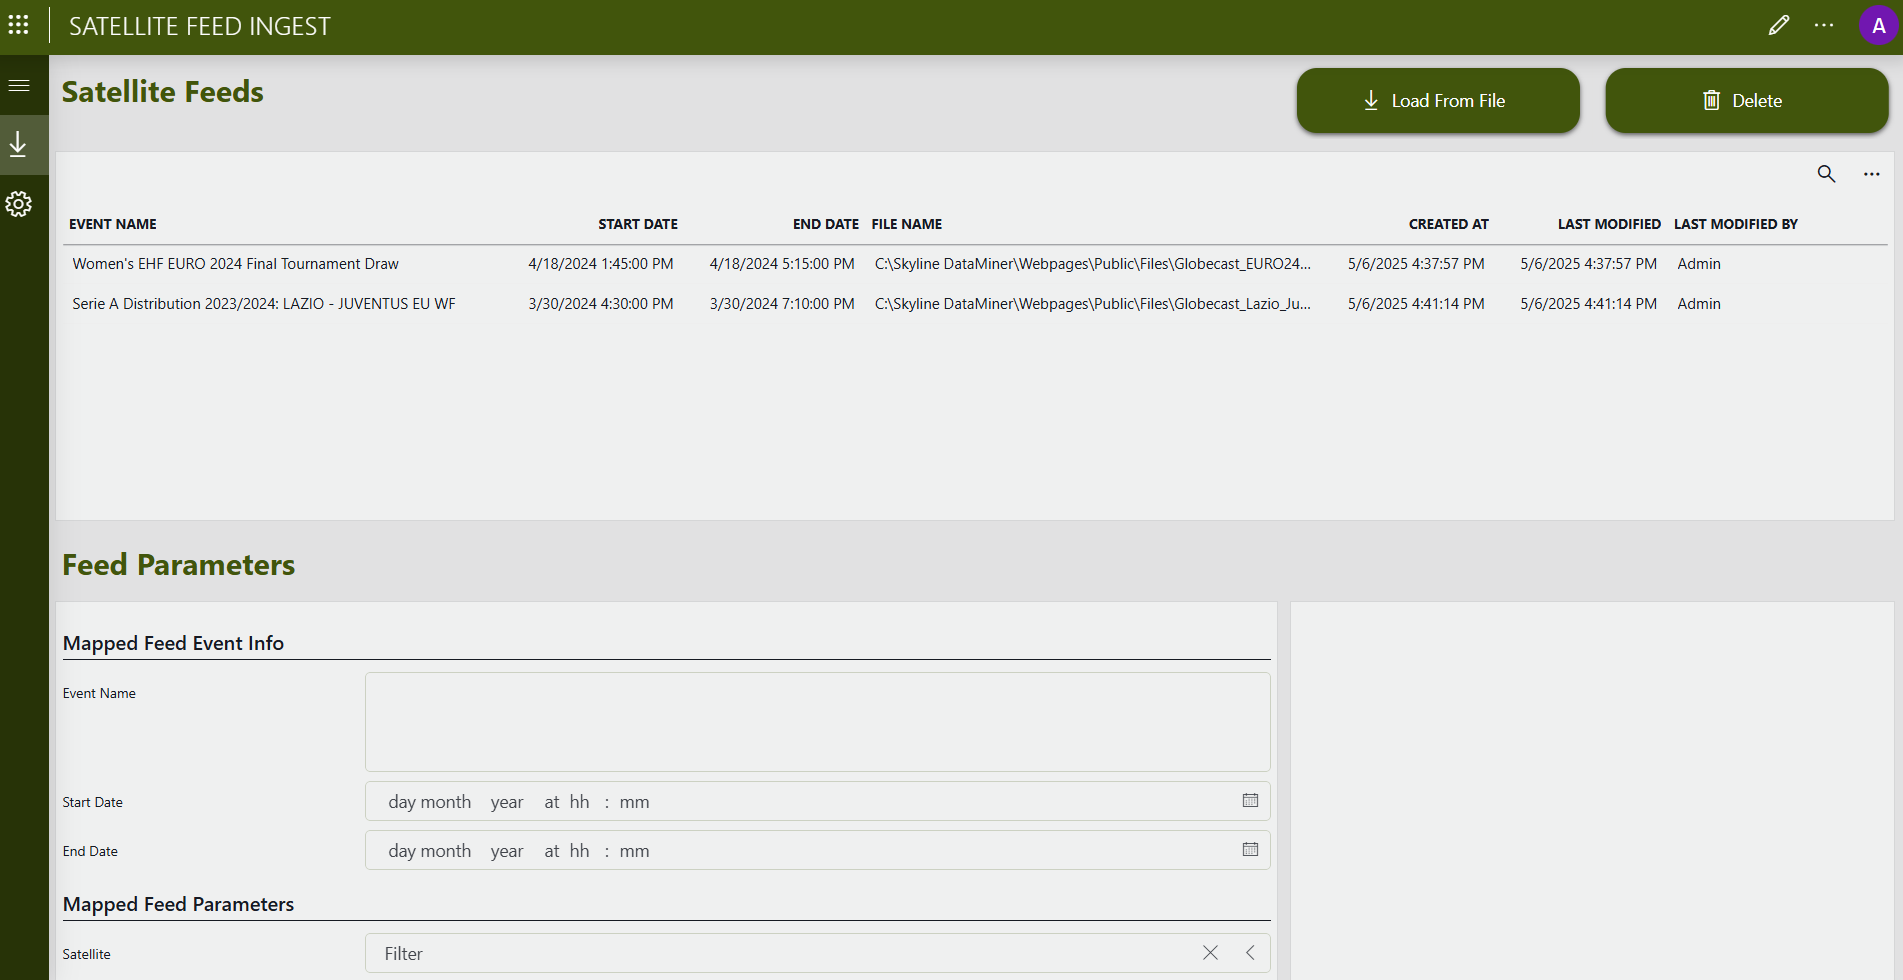
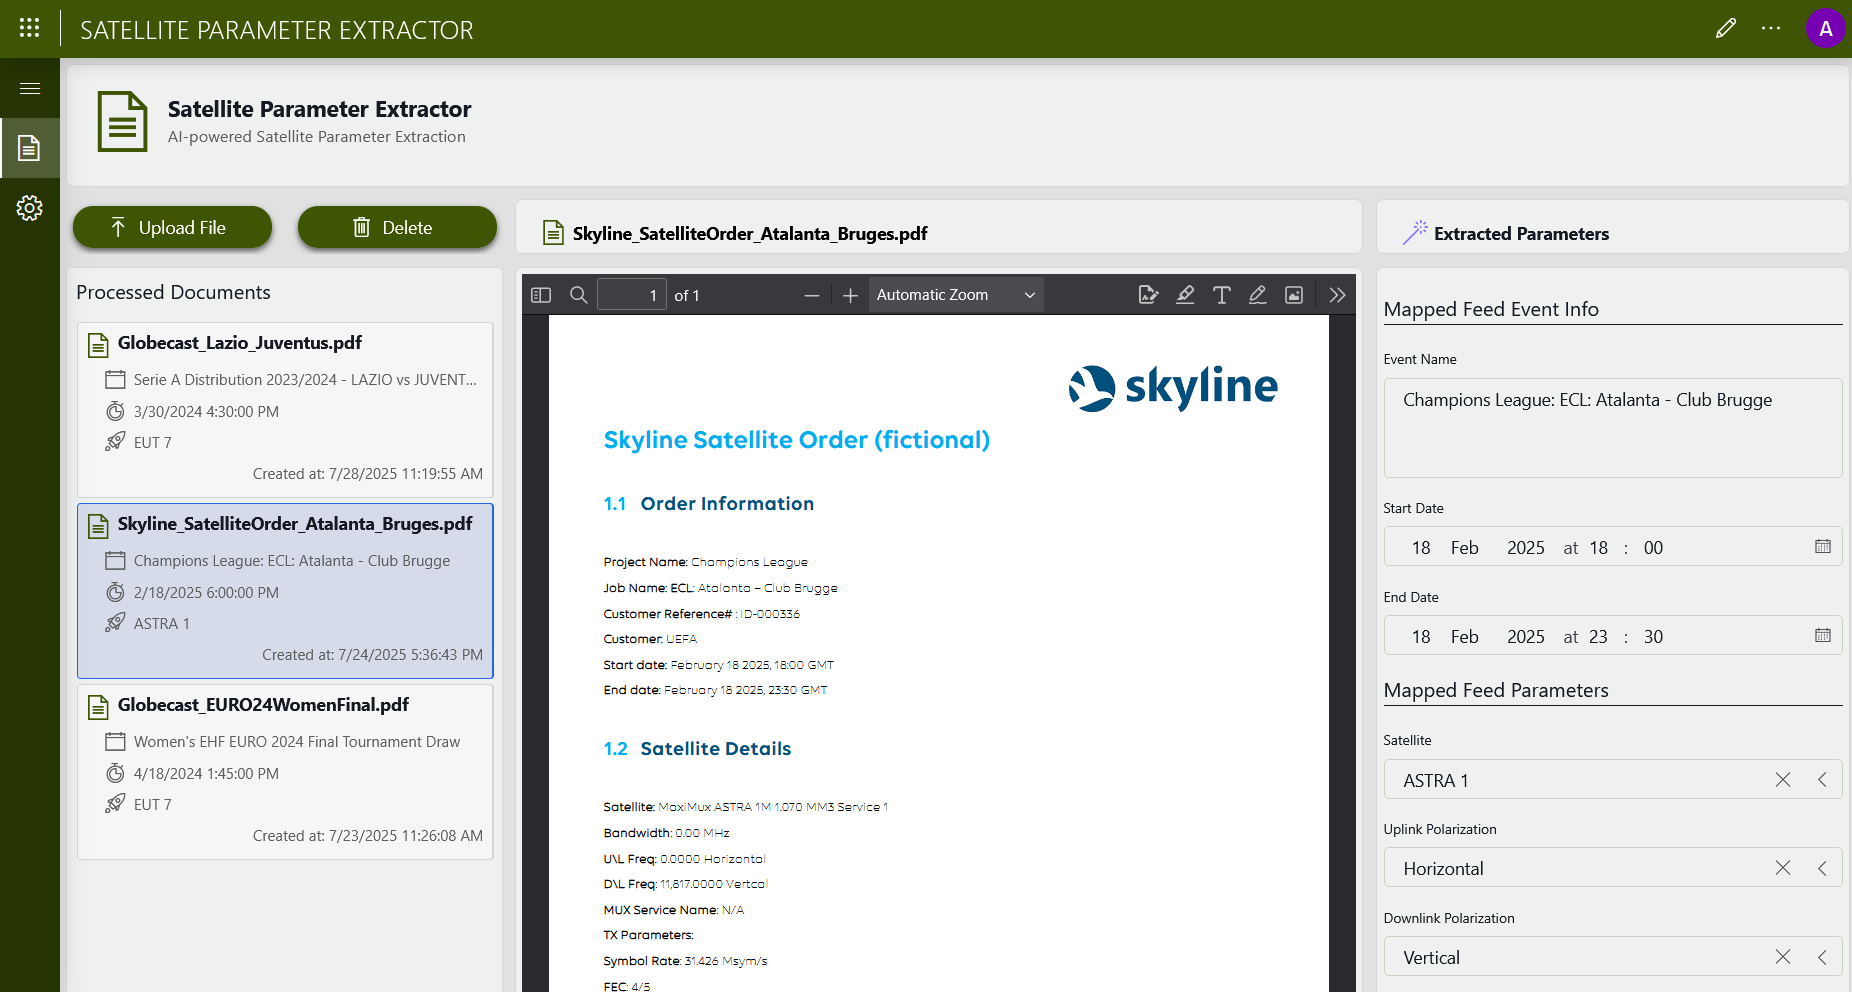
updates to documentation

diff --git a/SLC-TextAnalysisDemo/SLC-TextAnalysisDemo.cs b/SLC-TextAnalysisDemo/SLC-TextAnalysisDemo.cs
@@ -79,11 +79,4 @@ internal class Script
 		subScript.Synchronous = true;
 		subScript.StartScript();
 	}
-
-	private static void FixDllDependencies(IEngine engine)
-	{
-		var subScript = engine.PrepareSubScript("SLC_TextAnalysis_RenameDlls");
-		subScript.Synchronous = true;
-		subScript.StartScript();
-	}
 }

diff --git a/SLC-TextAnalysisDemo/CatalogInformation/README.md b/SLC-TextAnalysisDemo/CatalogInformation/README.md
@@ -8,11 +8,12 @@ This sample package shows how cloud AI tools, such as OCR (Optical Character Rec
 - Processing incident information from unstructured text
 - ... (feel free to contact us with use-cases)
 
-![Use case](./images/AI_processing_highlevel.png)
+
 
 The package contains two **applications**:
+- **Satellite Parameter Extractor**: uses a predefined prompt to read a set of satellite parameters from PDF files.
 - **Interactive File Prompt Tool**: can be used to interact with the GPT model as you would do from the ChatGPT web interface but from within DataMiner. This shows the flexibility to use the LLM from within DataMiner for virutally any use-case.
-- **Satellite Feed Ingest**: uses a predefined prompt to read a set of parameters from PDF files containing satellite parameters.
+
 
 > [!NOTE]
 > The package relies on external AI services that need to be configured in your own cloud environment. After configuring the AI services, the necessary API keys need to be configured in DataMiner to enable the functionality of the sample package. More information can be found in our [Docs](https://docs.dataminer.services/index.html).
@@ -22,9 +23,15 @@ The package contains two **applications**:
 
 ### Combination of OCR & LLM models
 
-The sample package uses a combintation of OCR (Optical Character Recognition) & LLM (Large Lanaguage Models, e.g. GPT-4o) for the applications described in more detail in the following sections. When a file is uploaded by the user, an automation script will first process the document using OCR and will send the plain text extracted from the file to an LLM together with a prompt for further interpretation. 
+The sample package uses a combintation of OCR (Optical Character Recognition) & LLM (Large Lanaguage Models, e.g. GPT-4o) for the applications described in more detail in the following sections. When a file is uploaded by the user, an automation script will first process the document using OCR and will send the plain text extracted from the file to an LLM together with a prompt for further interpretation. The main reason for this two-step approach is the APIs towards the LLM not yet supporting sending over PDF documents as a whole.
 
 ![Combination OCR and LLM](./images/AI_processing_archtiecture_hihglevel.png)
+
+### Satellite Feed Ingest
+
+This app uses a predefined prompt in the background to process Satellite parameters from PDF documents. The user simply uploads a PDF file and the system will use the AI tools to process the information in the document and create a new Satellite Feed instance from it in [DOM](https://docs.dataminer.services/user-guide/Advanced_Modules/DOM/DOM.html?q=dataminer%20object%20mo) (visualized on the right). 
+
+![Satellite Feed Ingest App](./images/pdf_processing_AI_Satellite_Feed_Ingest.pNg)
 
 ### Interactive File Prompt App
 
@@ -34,15 +41,12 @@ The tool can be used for any use-case, going from asking the tool to tell a joke
 
  ![Interactive File Prompt App](./images/pdf_processing_interactive_prompt_tool_prompt.png)
 
-### Satellite Feed Ingest
-
-This app uses a predefined prompt in the background to process Satellite parameters from PDF documents. The user simply uploads a PDF file and the system will use the AI tools to process the information in the document and create a new Satellite Feed instance from it in [DOM](https://docs.dataminer.services/user-guide/Advanced_Modules/DOM/DOM.html?q=dataminer%20object%20mo). 
-
-![Satellite Feed Ingest App](./images/pdf_processing_AI_Satellite_Feed_Ingest.png)
-
 ## Prerequisites
 
 - DataMiner version 10.5.8 or higher
+
+> [!NOTE]
+> The embedded PDF in the Satellite Parameter Extractor Low-Code application will only work on specific browsers (Firefox for example, Google Chrome and Edge typically do not work). This is due to a security feature blocking some pdf viewers of browsers when embedded in a Low-Code app. It is on the backlog for Low-Code apps to make whitelisting for these pdf viewers configurable. However, there is not commitment in terms of release date. 
 
 ## Pricing
 
